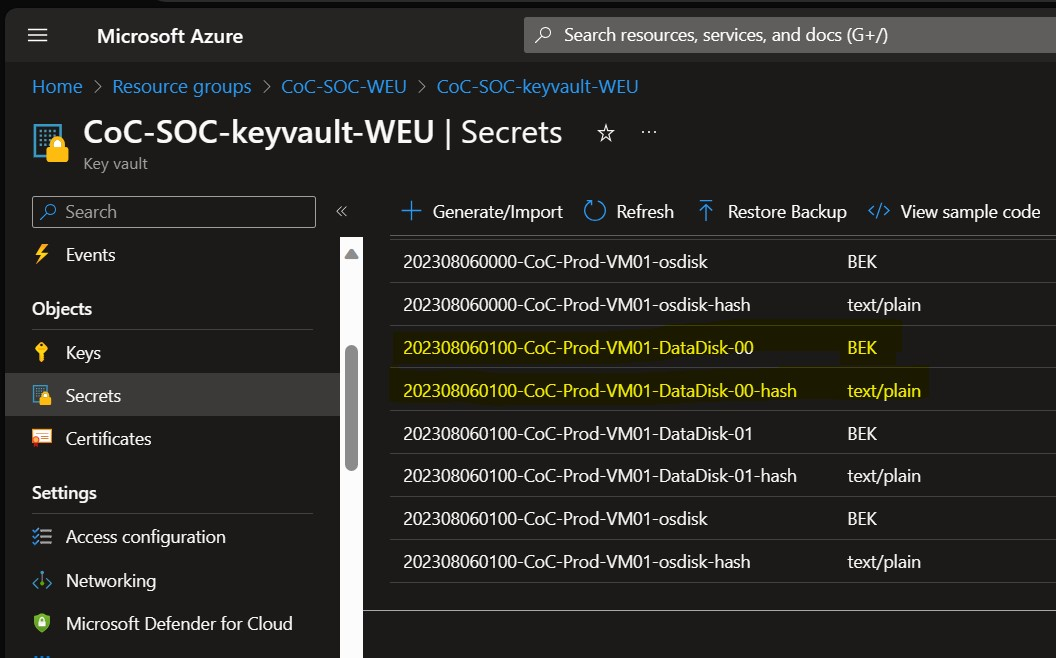
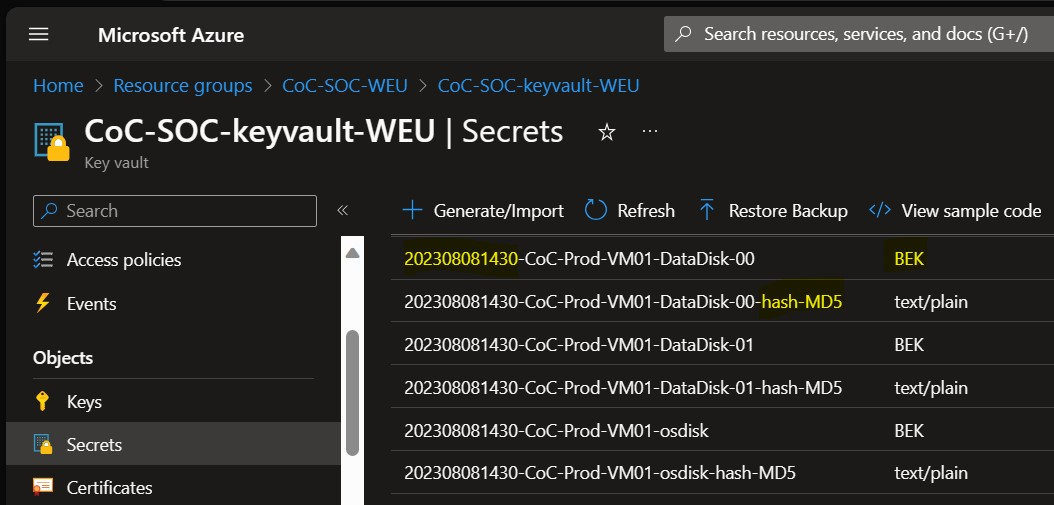
update

diff --git a/README.md b/README.md
@@ -78,12 +78,12 @@ Access the automation account within the SOC resource group and navigate to the 
 
 Once the job concludes, examine the job's Output to verify successful completion.
 
-![Screenshot of a completed job](./.diagrams/JobCompleted_Output.jpg)
+![Screenshot of a completed job](./.diagrams/JobCompleted_Out.jpg)
 
-The output shows the name of the digital evidence composed by a timestamp prefix followed by the name of the disk. For example the prefix for a job started on 6th August 2023 at 1:00 UTC will be *202308060100_*.  
+The output shows the name of the digital evidence composed by a timestamp prefix followed by the name of the disk. For example the prefix for a job started on 8th August 2023 at 14:30 UTC will be *202308081430_*.  
 The digital evidence is stored in the *immutable* blob container of the storage account in the SOC resource group and can be downloaded for inspection. 
 ![Screenshot of the immutable container](./.diagrams/JobCompleted_SA.jpg)
-The hash of the digital evidence is stored in the Key Vault of the SOC stored with the same name of the digital evidence followed by the suffix "-hash". The BEK keys are stored in the key vault of the SOC with the name of the digital evidence.
+The hash of the digital evidence is stored in the Key Vault of the SOC stored with the same name of the digital evidence followed by the suffix "-hash" and the algorithm used. The BEK keys are stored in the key vault of the SOC with the name of the digital evidence.
 ![Screenshot of the Key Vault](./.diagrams/JobCompleted_KV.jpg)
 After downloading digital evidence, recalculate the hash for comparison with the Key Vault-stored hash to verify integrity.
 
